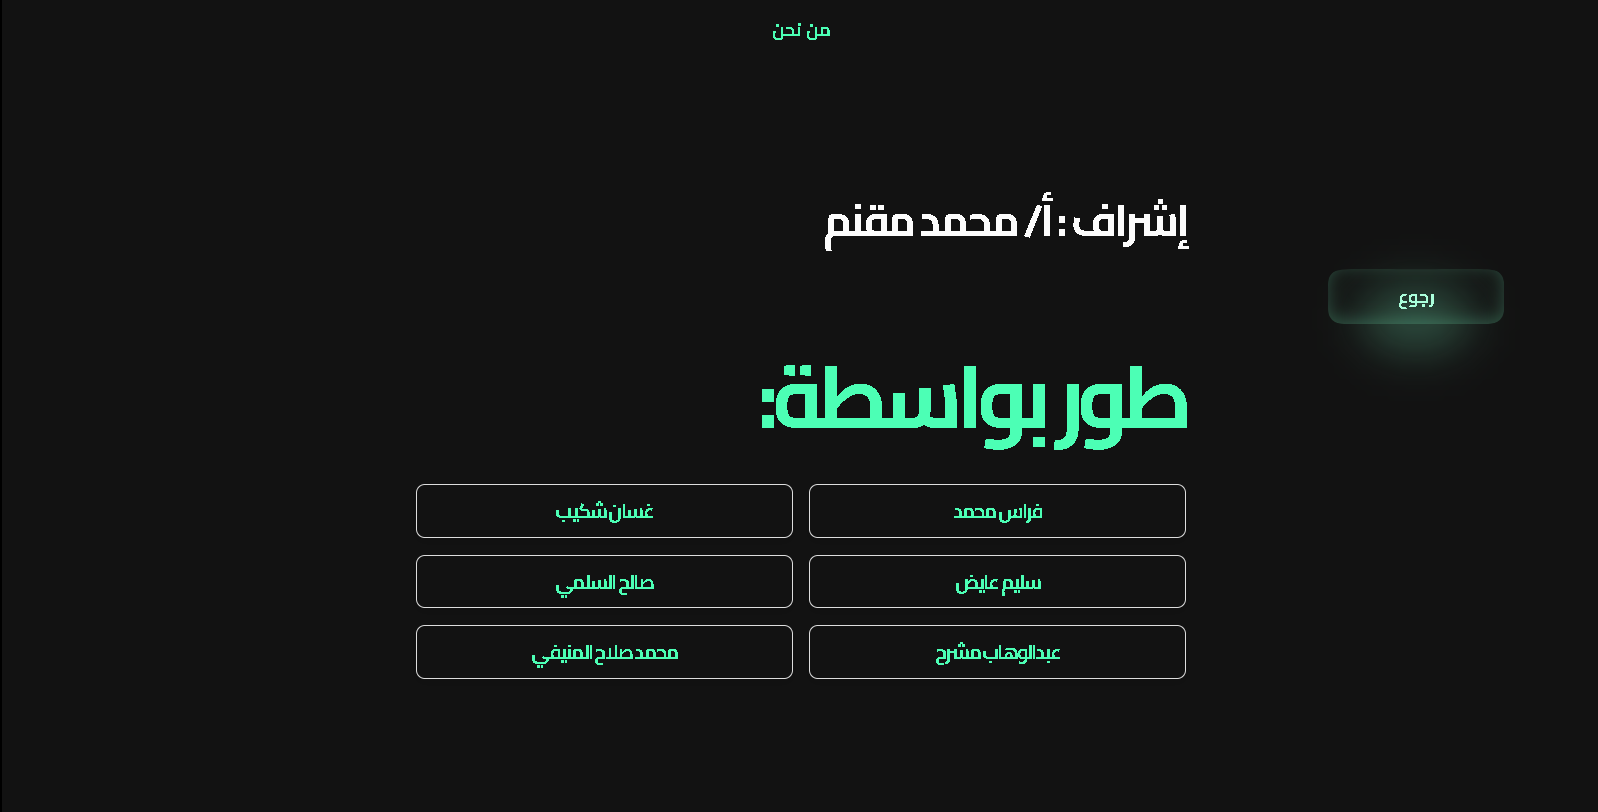
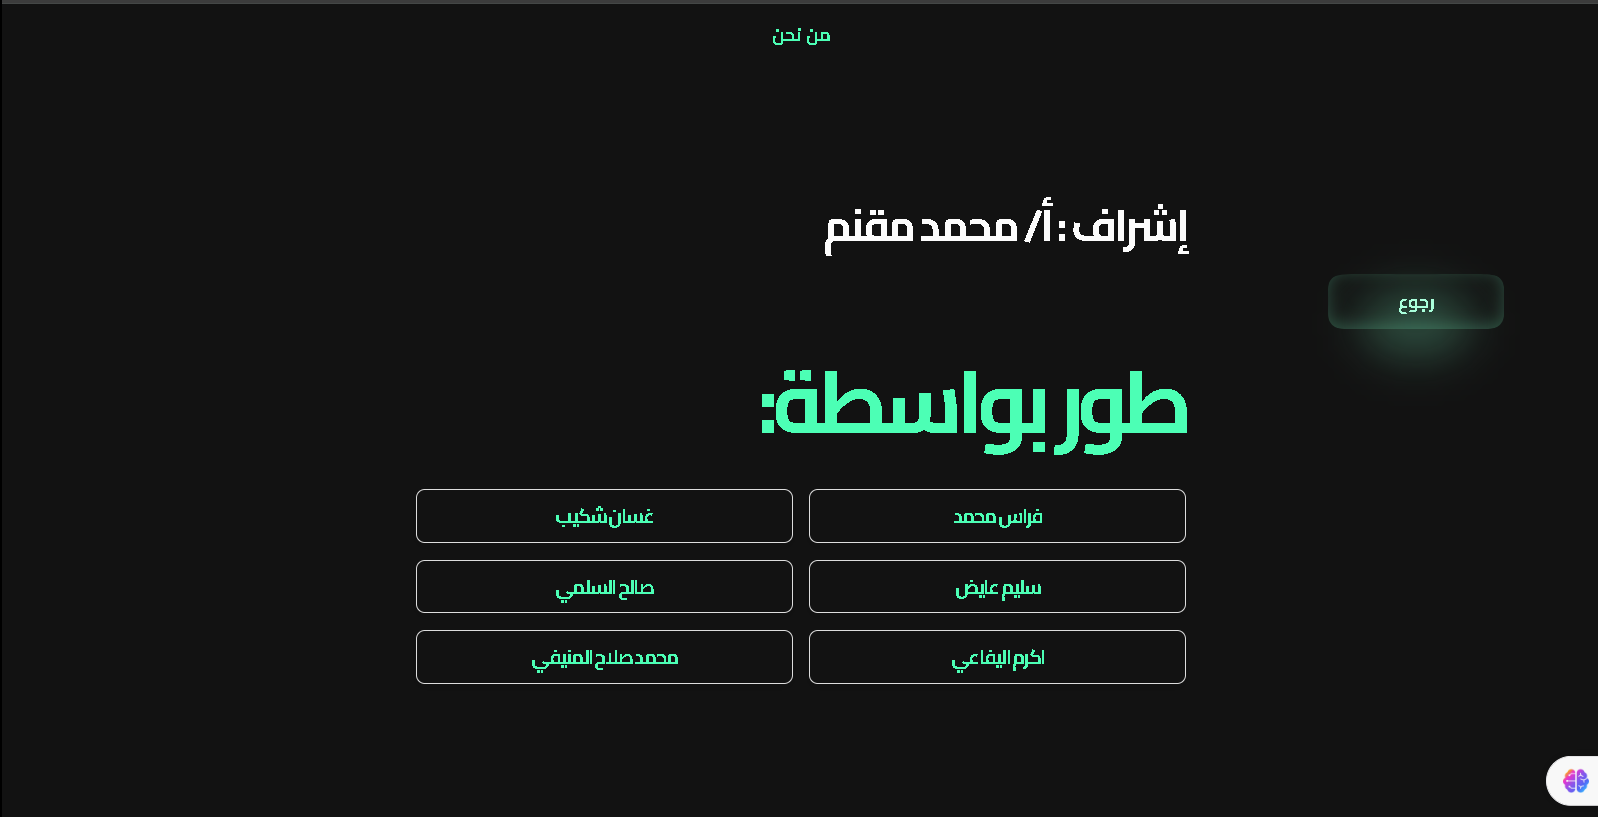
update contact us

diff --git a/resources/js/Pages/ContactUs/ContactUsPage.vue b/resources/js/Pages/ContactUs/ContactUsPage.vue
@@ -28,7 +28,7 @@ import {Link} from '@inertiajs/vue3'
 
 <div class="title">
     <p style="letter-spacing: -0.2rem; align-self: flex-end ;font-size: 40px;">إشراف : أ/ محمد مقنم    </p>
-    <p class="">:طور بواسطة </p> 
+    <p class="">:طور بواسطة </p>
 
     <div class="developer-text-grid">
         <div class="developer-item">غسان شكيب</div>
@@ -36,7 +36,7 @@ import {Link} from '@inertiajs/vue3'
         <div class="developer-item">صالح السلمي</div>
         <div class="developer-item">سليم عايض</div>
         <div class="developer-item">محمد صلاح المنيفي</div>
-        <div class="developer-item">عبدالوهاب مشرح</div>
+        <div class="developer-item">اكرم اليفاعي</div>
     </div>
 </div>
 
